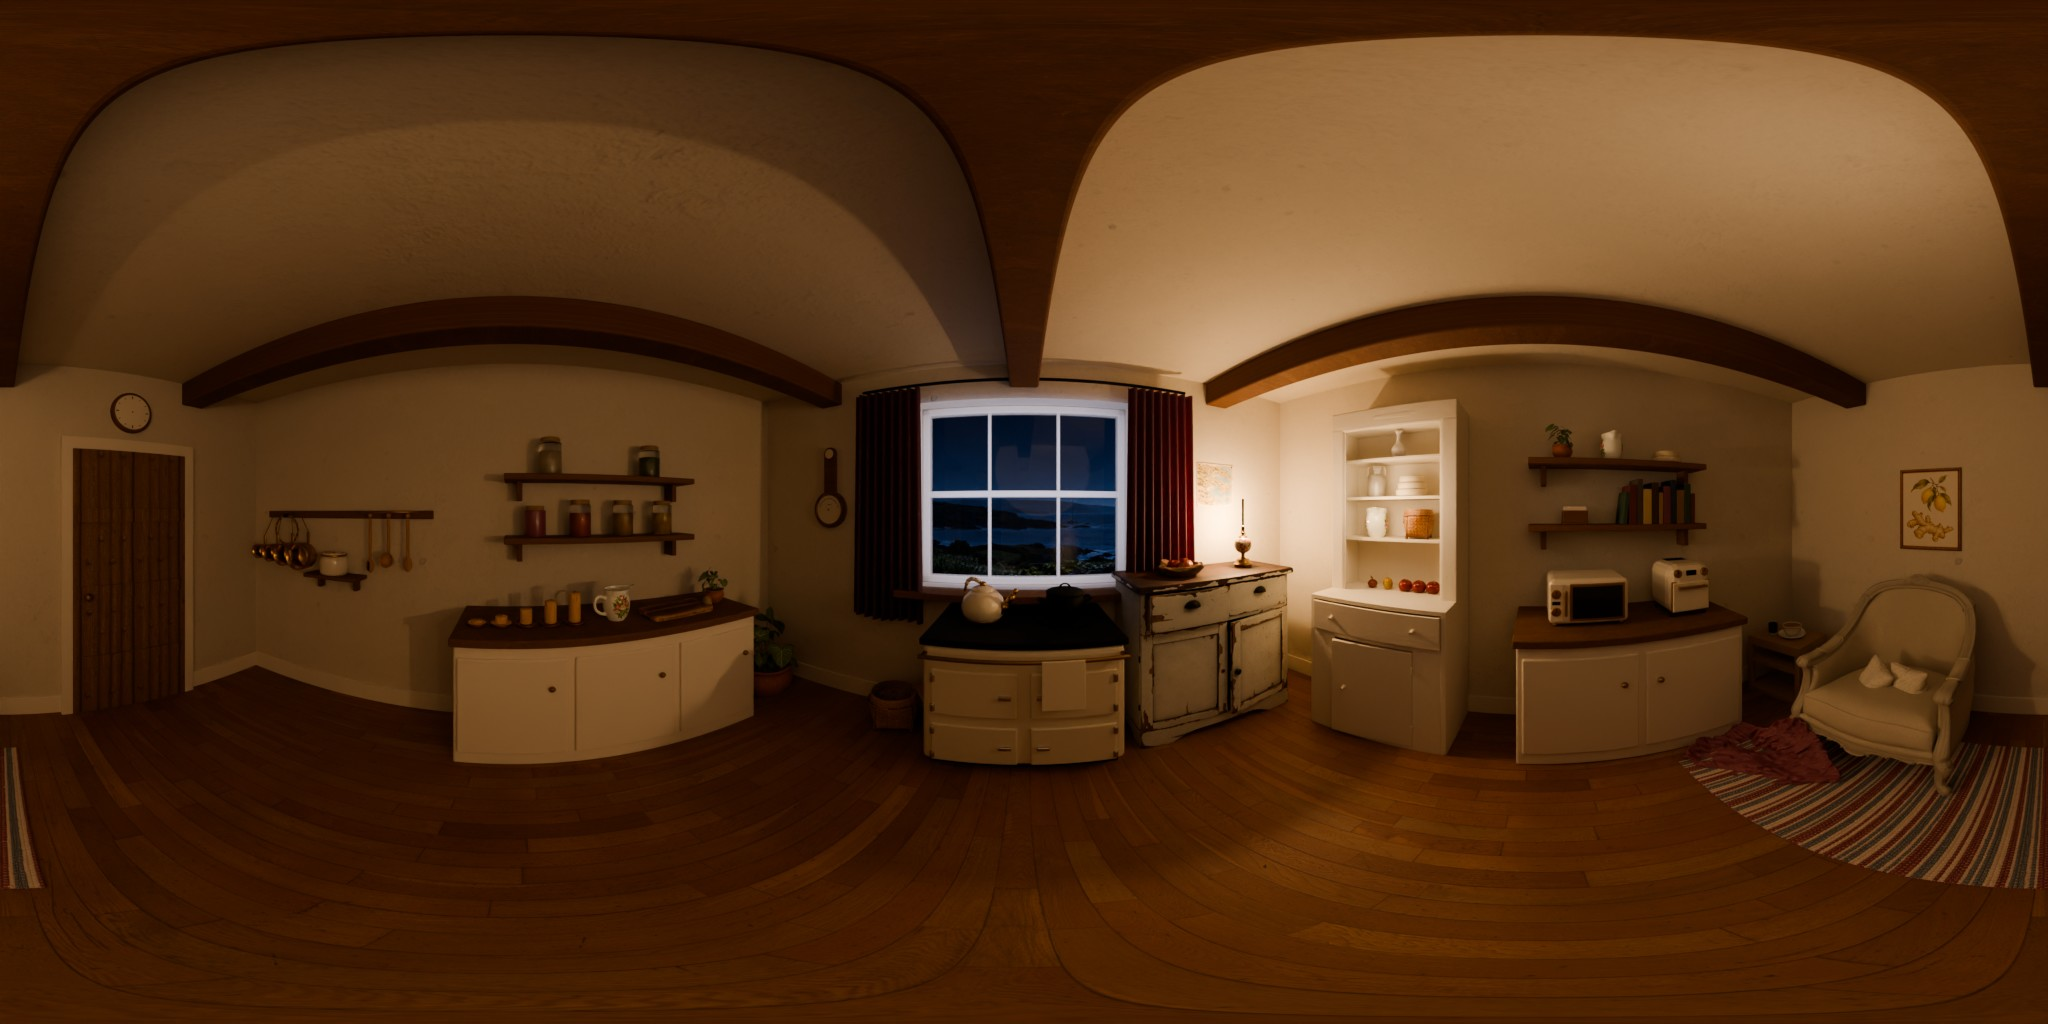
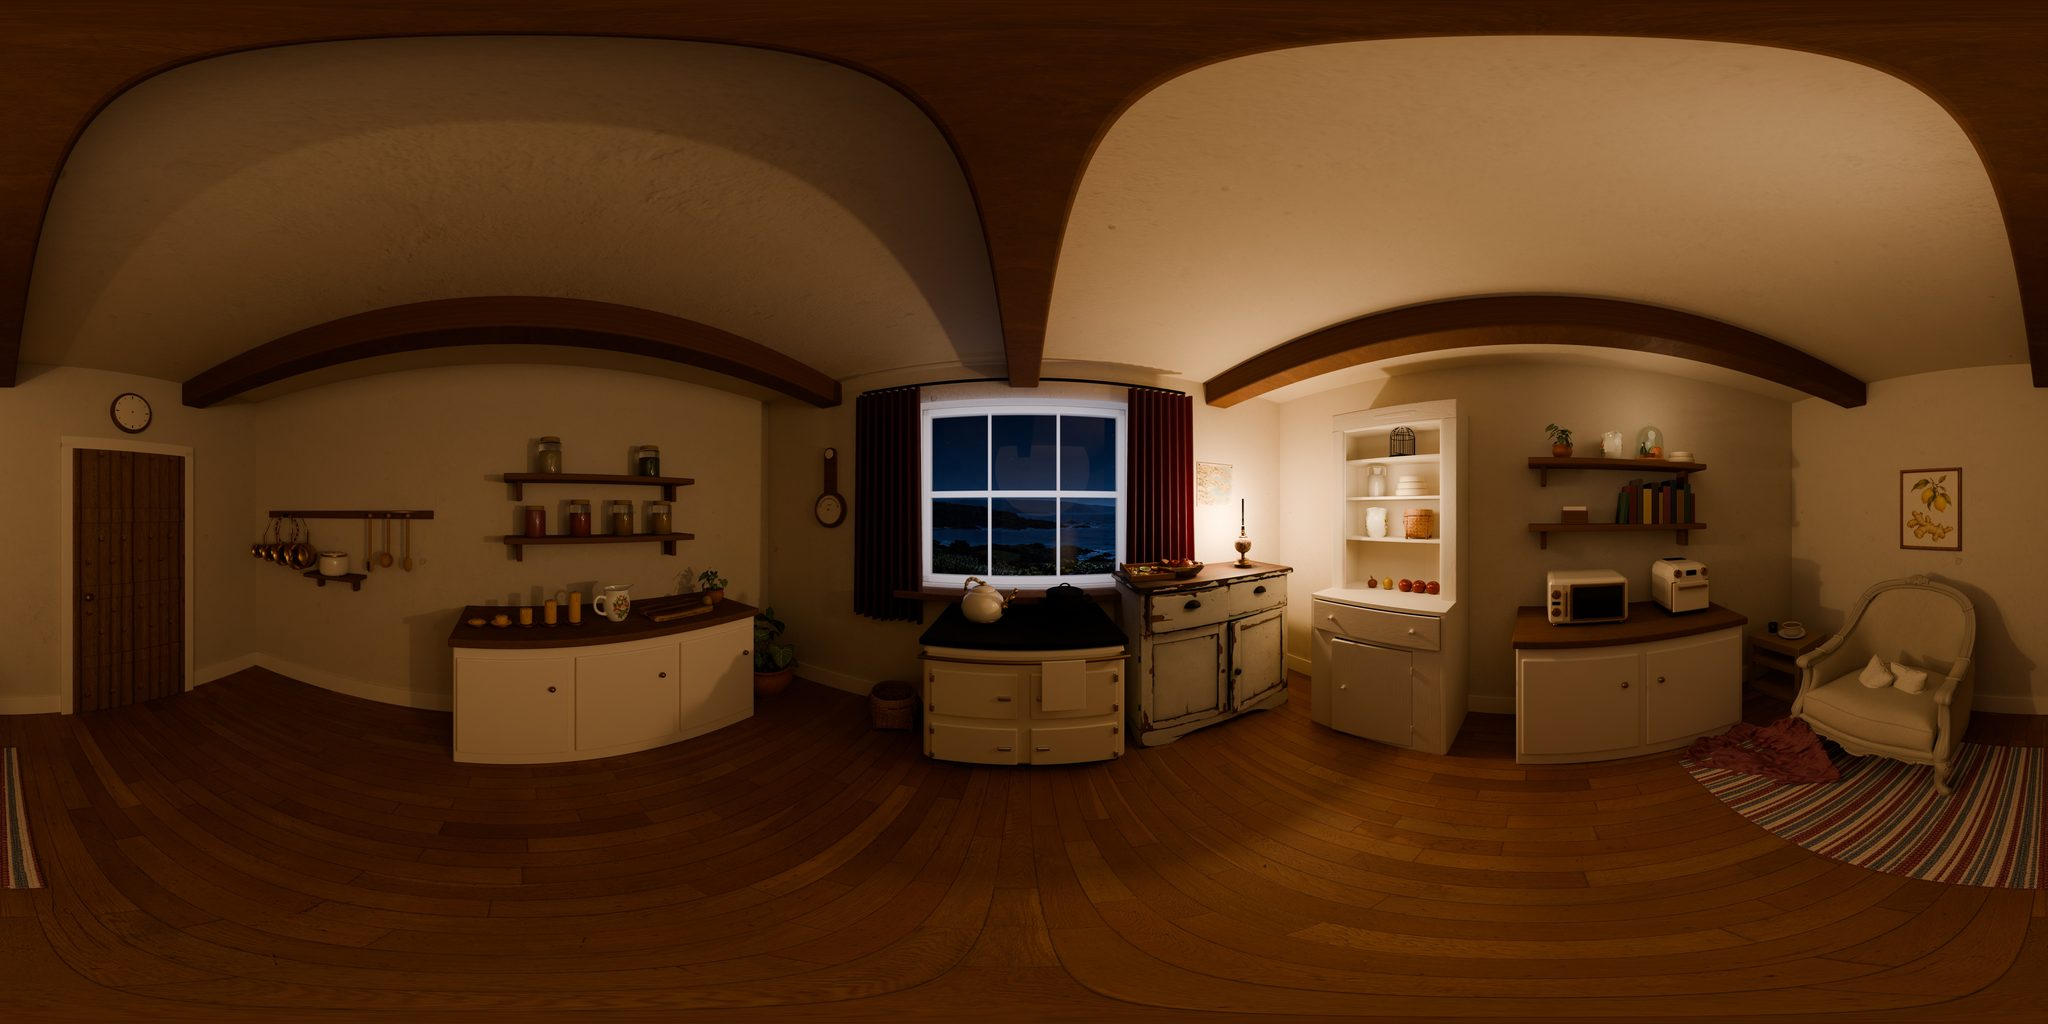
Cuddlecore: tray, cage and bell jar rendered in (every weather, day and night, 8K + previews); hotspots; CAGE_PAINTED = true

Changed region(s): [[0.75, 0.3125, 0.8438, 0.4688], [0.6562, 0.4062, 0.7188, 0.4375], [0.5312, 0.5312, 0.5938, 0.5625]]

diff --git a/blender/explore/how-you-like-it.js b/blender/explore/how-you-like-it.js
@@ -247,7 +247,7 @@ export function install(inn) {
   // ---------- the cage's overlay: what's skipped, drawn inside the cage like the candle flames (inn.spriteFrom, candles.js).
   // At the hotspot's `inside` point (art adds it with the render; until then the hotspot itself, 2.4 m away). Until the cage
   // is painted into the render, a wire cage is drawn too (CAGE_PAINTED, docs/art-brief-cuddlecore-tray.md)
-  const CAGE_PAINTED = false;
+  const CAGE_PAINTED = true;
   // Made on first use: spriteFrom is candles.js's, installed after this module
   let cageSprite = null;
   function drawCage(ids) {
